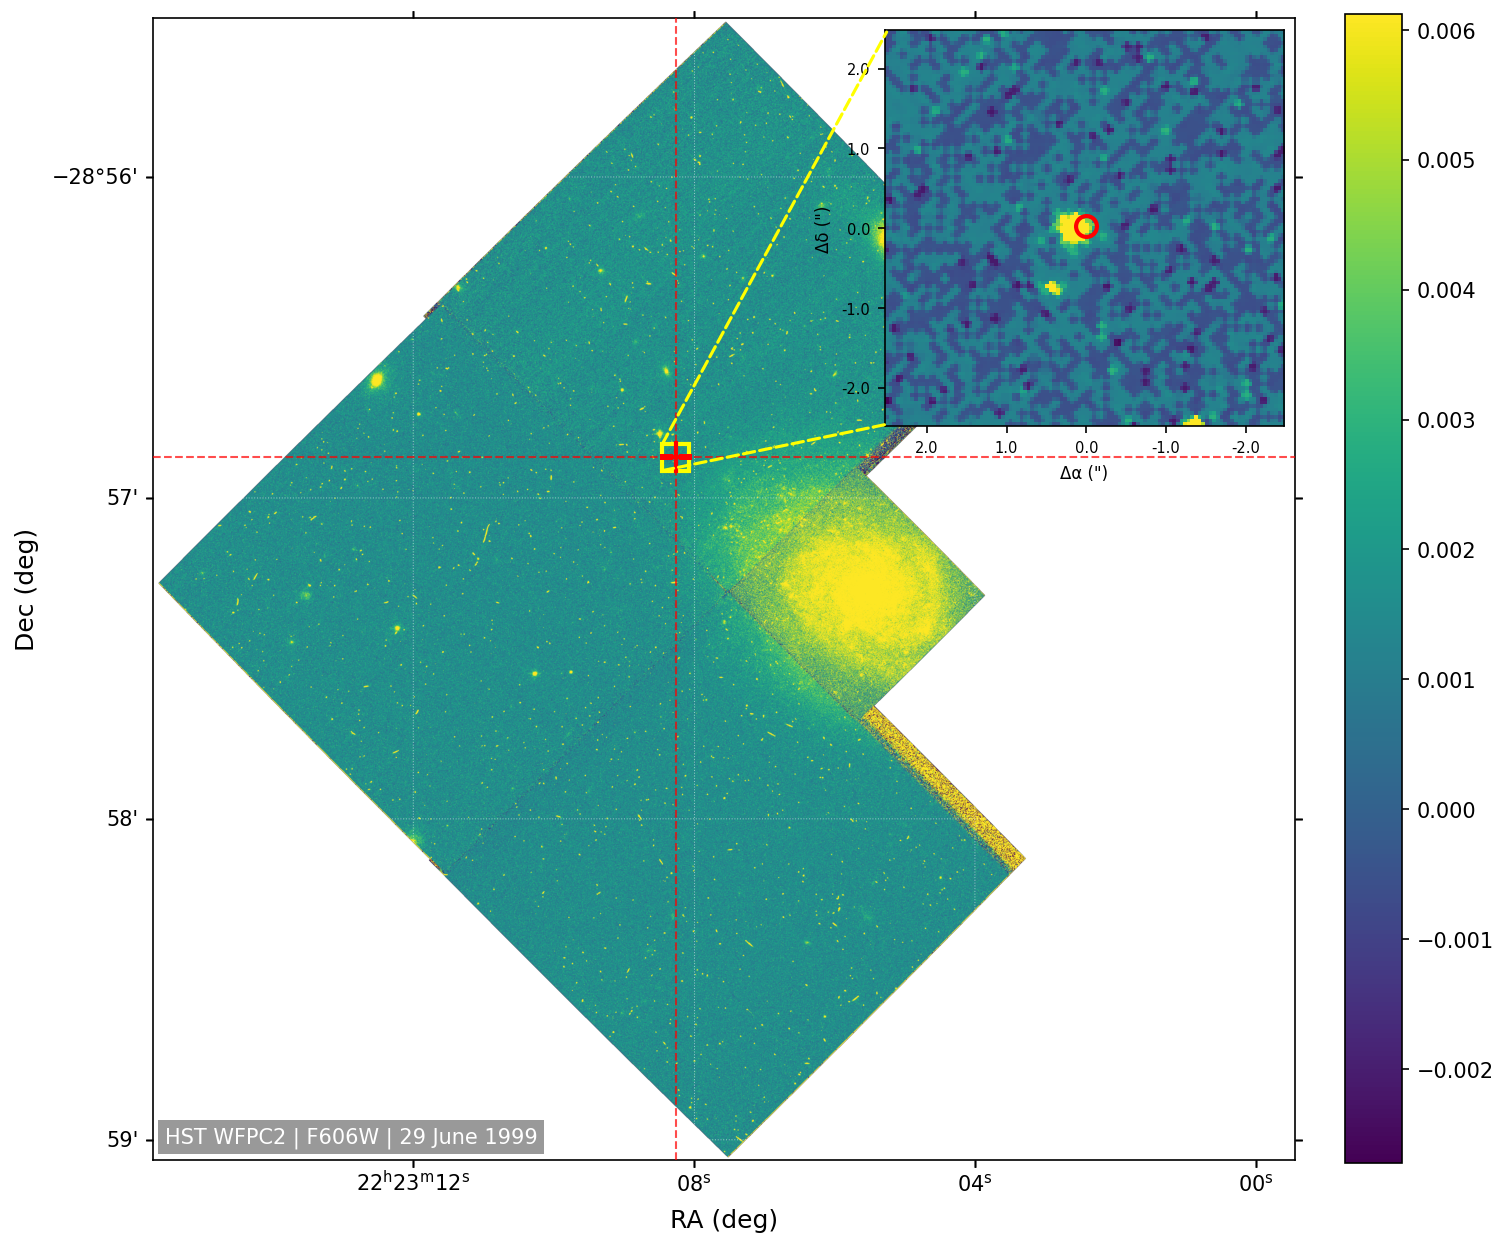
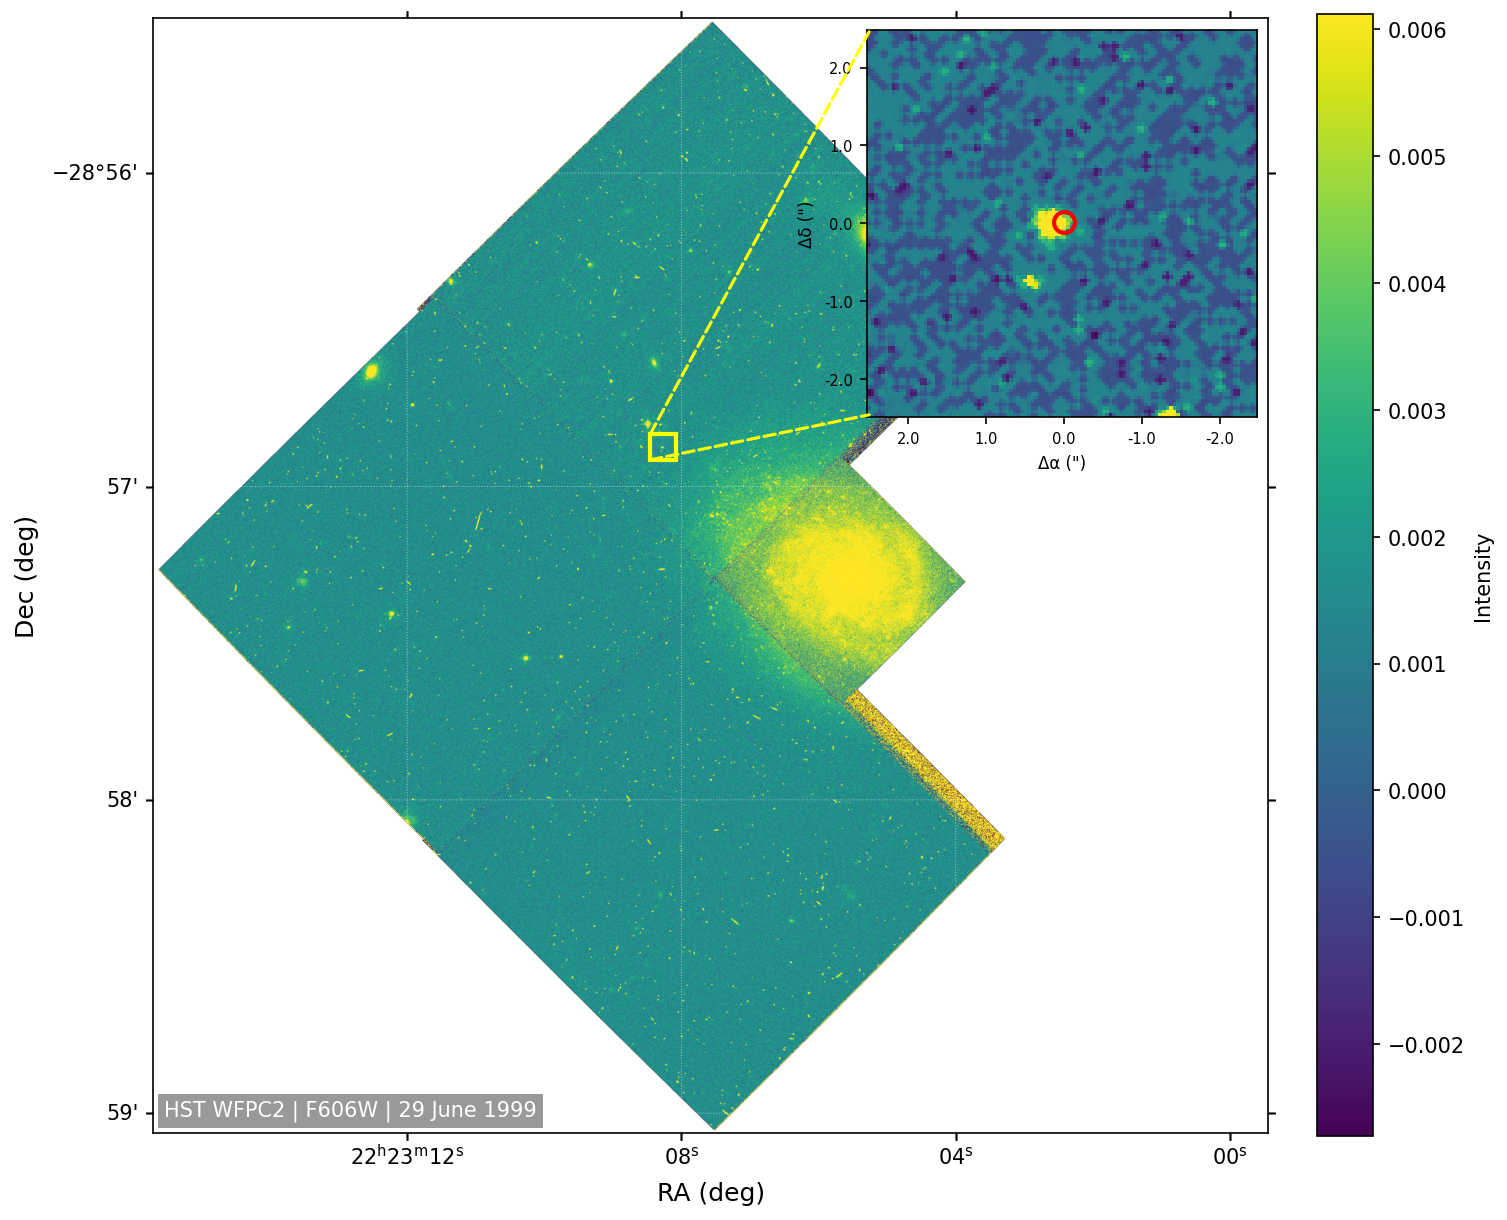
Remove red crosshairs and add units to colorbar
- Remove red crosshair lines and '+' marker from full image
- Add BUNIT from FITS header to colorbar label
- Label format: 'Intensity (BUNIT)' or 'Intensity' if BUNIT missing
- Update example_output.png

diff --git a/check_HST_coverage.py b/check_HST_coverage.py
@@ -400,7 +400,7 @@ def plot_hst_images(image_files, output_file="hst_mosaic.png", target_ra=None, t
             ax1.coords['ra'].set_ticklabel(size=10)
             ax1.coords['dec'].set_ticklabel(size=10)
             
-            # Add crosshair at target coordinates if provided
+            # Check if target is within bounds for cutout
             target_in_bounds = False
             if target_ra is not None and target_dec is not None:
                 # Convert RA/DEC to pixel coordinates
@@ -410,17 +410,17 @@ def plot_hst_images(image_files, output_file="hst_mosaic.png", target_ra=None, t
                 ny, nx = data.shape
                 if 0 <= x_target < nx and 0 <= y_target < ny:
                     target_in_bounds = True
-                    # Draw crosshair
-                    ax1.axvline(x_target, color='red', linestyle='--', linewidth=1, alpha=0.7)
-                    ax1.axhline(y_target, color='red', linestyle='--', linewidth=1, alpha=0.7)
-                    ax1.plot(x_target, y_target, 'r+', markersize=15, markeredgewidth=2)
                 else:
                     print(f"Warning: Target coordinates ({target_ra:.6f}, {target_dec:.6f}) fall outside the image bounds.")
                     print(f"  Pixel coordinates: ({x_target:.1f}, {y_target:.1f}) outside [0:{nx}, 0:{ny}]")
-                    ax1.text(0.5, 0.01, 'Target outside image bounds', ha='center', va='bottom',
-                             transform=ax1.transAxes, fontsize=10, color='red')
             
-            plt.colorbar(im1, ax=ax1, fraction=0.046, pad=0.04)
+            # Add colorbar with units from header
+            bunit = header.get('BUNIT', '')
+            if bunit:
+                label = f'Intensity ({bunit})'
+            else:
+                label = 'Intensity'
+            plt.colorbar(im1, ax=ax1, fraction=0.046, pad=0.04, label=label)
             
             # Inset axes in top-right corner: 5 arcsec wide (2.5 arcsec radius) cutout
             from mpl_toolkits.axes_grid1.inset_locator import inset_axes